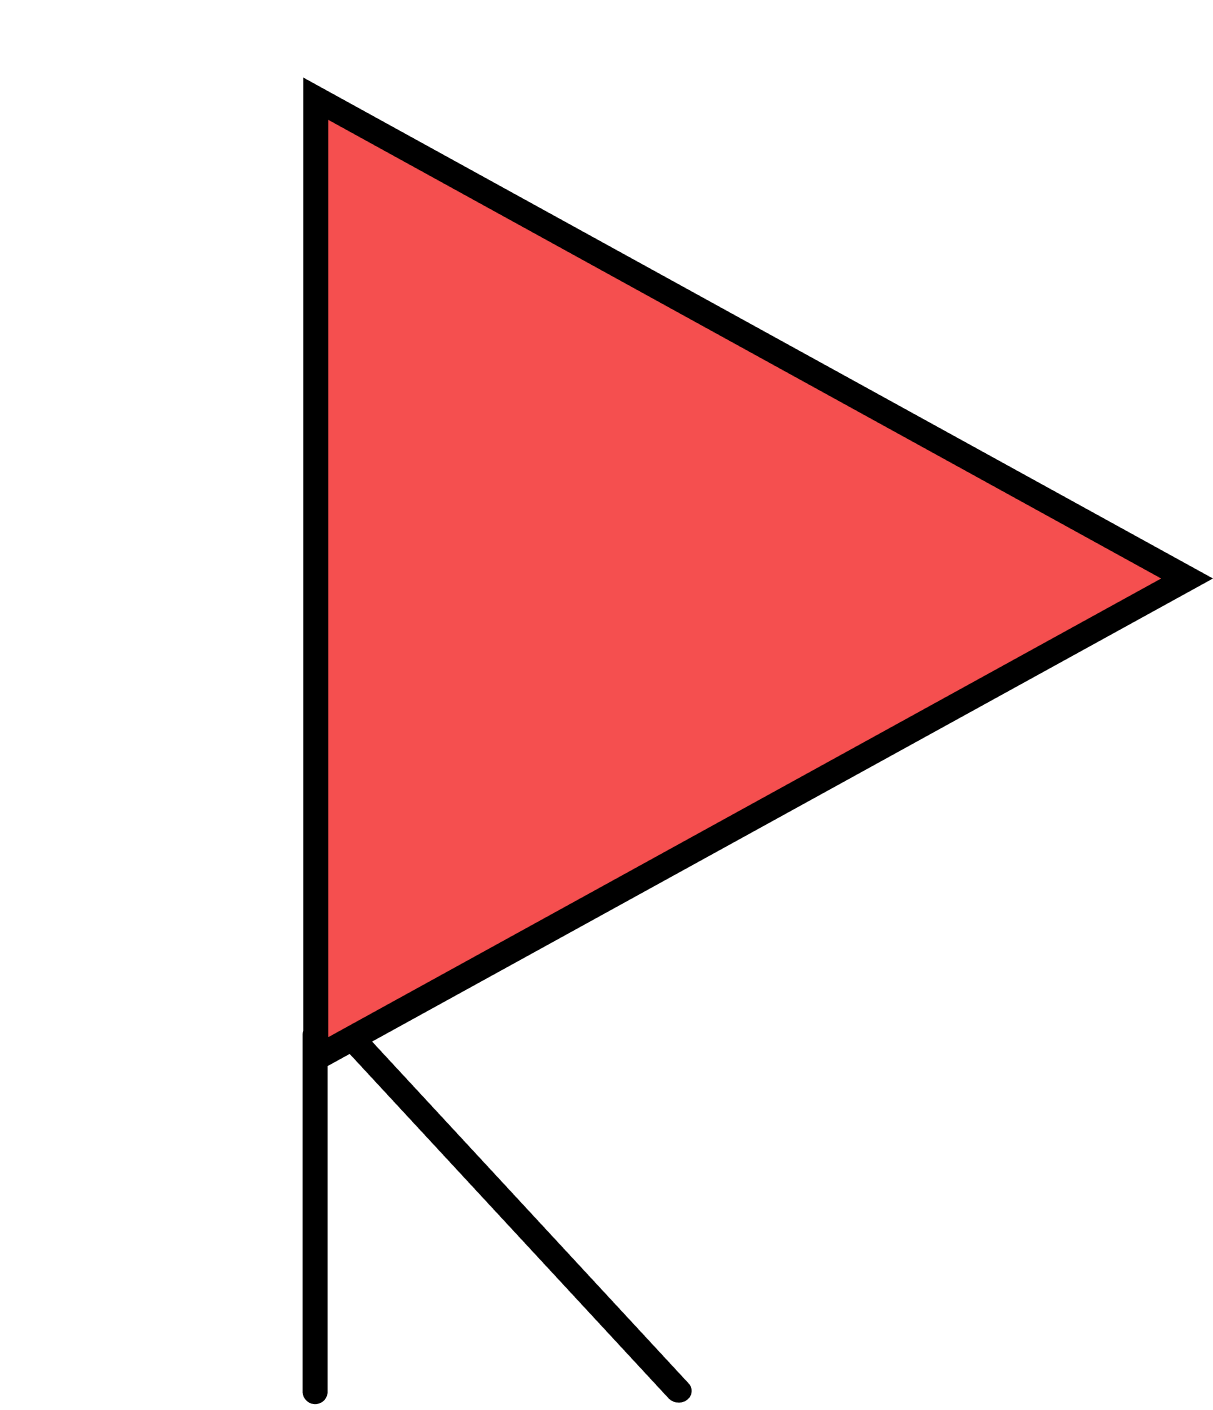
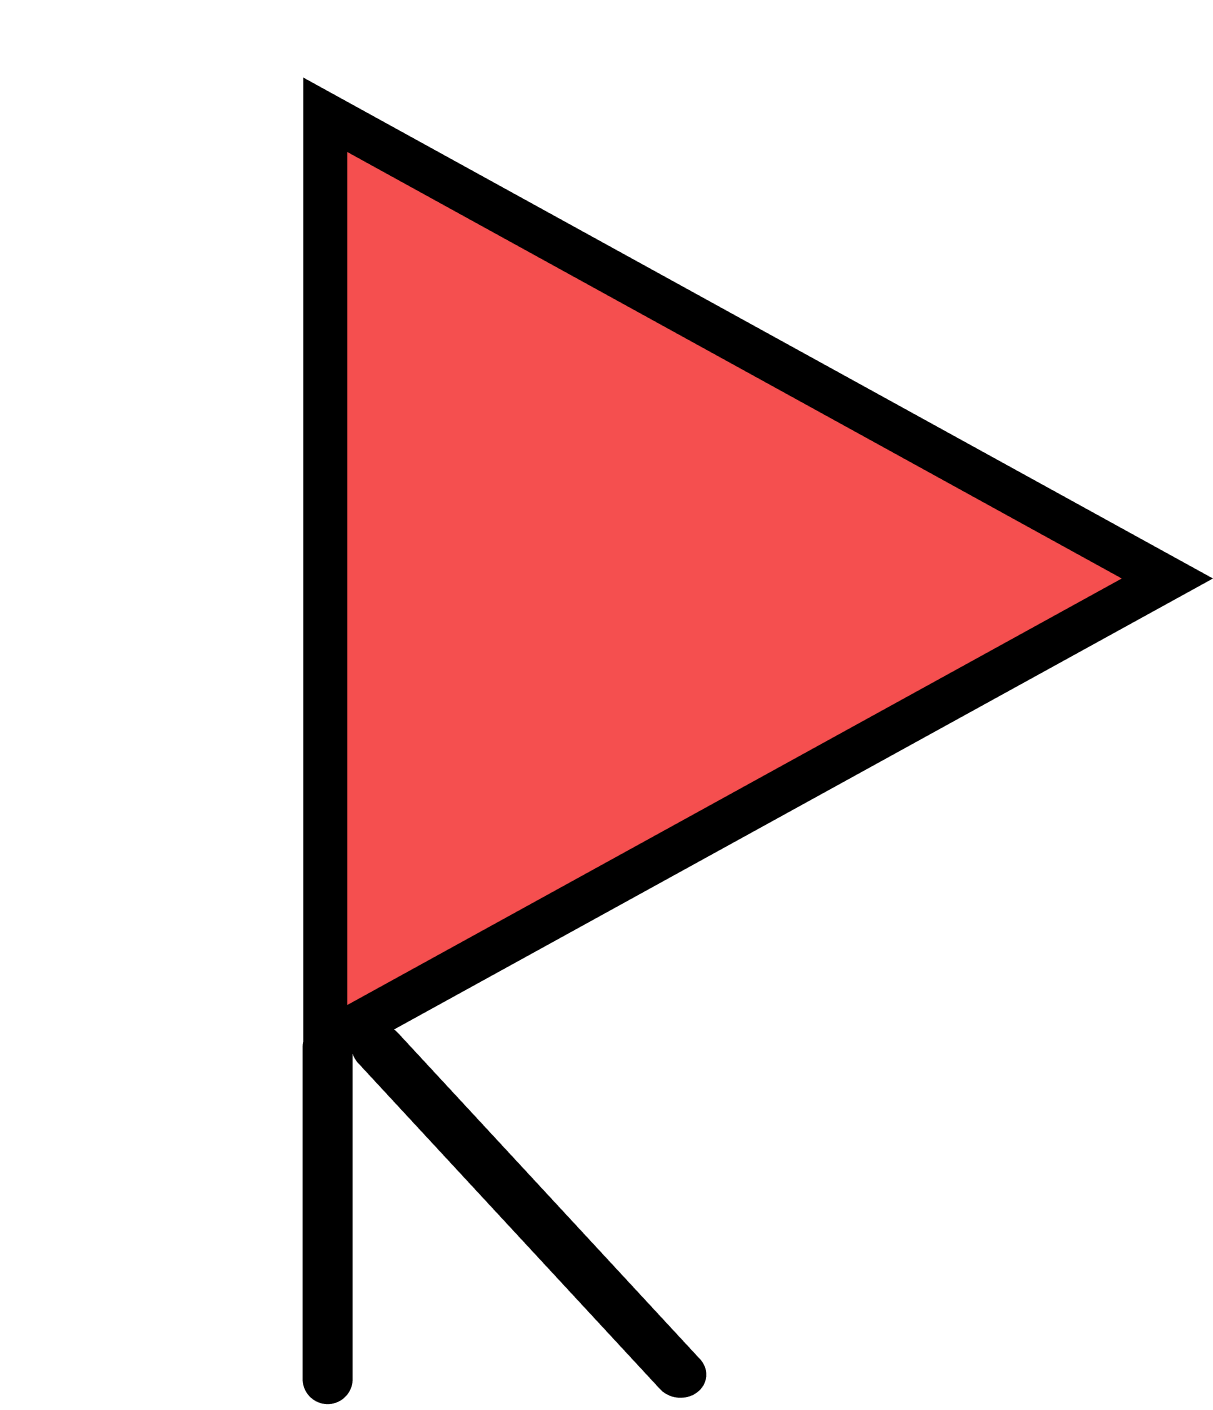
rework opaque assets

diff --git a/public/index.html b/public/index.html
@@ -5,12 +5,12 @@
     <meta name="viewport" content="width=device-width, initial-scale=1.0" />
     <title>Reco - ScreenRecording Studio</title>
 
-    <link rel="icon" type="image/jpeg" sizes="196x196" href="favicon-196.jpg" />
+    <link rel="icon" type="image/png" sizes="196x196" href="favicon-196.png" />
 
-    <link rel="apple-touch-icon" sizes="180x180" href="apple-icon-180.jpg" />
-    <link rel="apple-touch-icon" sizes="167x167" href="apple-icon-167.jpg" />
-    <link rel="apple-touch-icon" sizes="152x152" href="apple-icon-152.jpg" />
-    <link rel="apple-touch-icon" sizes="120x120" href="apple-icon-120.jpg" />
+    <link rel="apple-touch-icon" sizes="180x180" href="apple-icon-180.png" />
+    <link rel="apple-touch-icon" sizes="167x167" href="apple-icon-167.png" />
+    <link rel="apple-touch-icon" sizes="152x152" href="apple-icon-152.png" />
+    <link rel="apple-touch-icon" sizes="120x120" href="apple-icon-120.png" />
 
     <meta name="apple-mobile-web-app-capable" content="yes" />
   </head>

diff --git a/build-utils/generateAssets.js b/build-utils/generateAssets.js
@@ -6,9 +6,10 @@ const pwaAssetGenerator = require('pwa-asset-generator');
     path.resolve(__dirname, '../public/icon.png'),
     path.resolve(__dirname, '../public'),
     {
-      background: "linear-gradient(to right, #fa709a 0%, #fee140 100%)",
+      type: 'png',
       iconOnly: true,
       favicon: true,
+      opaque: false,
       index: path.resolve(__dirname, '../public/index.html'),
       manifest: path.resolve(__dirname, '../public/manifest.json'),
     });
